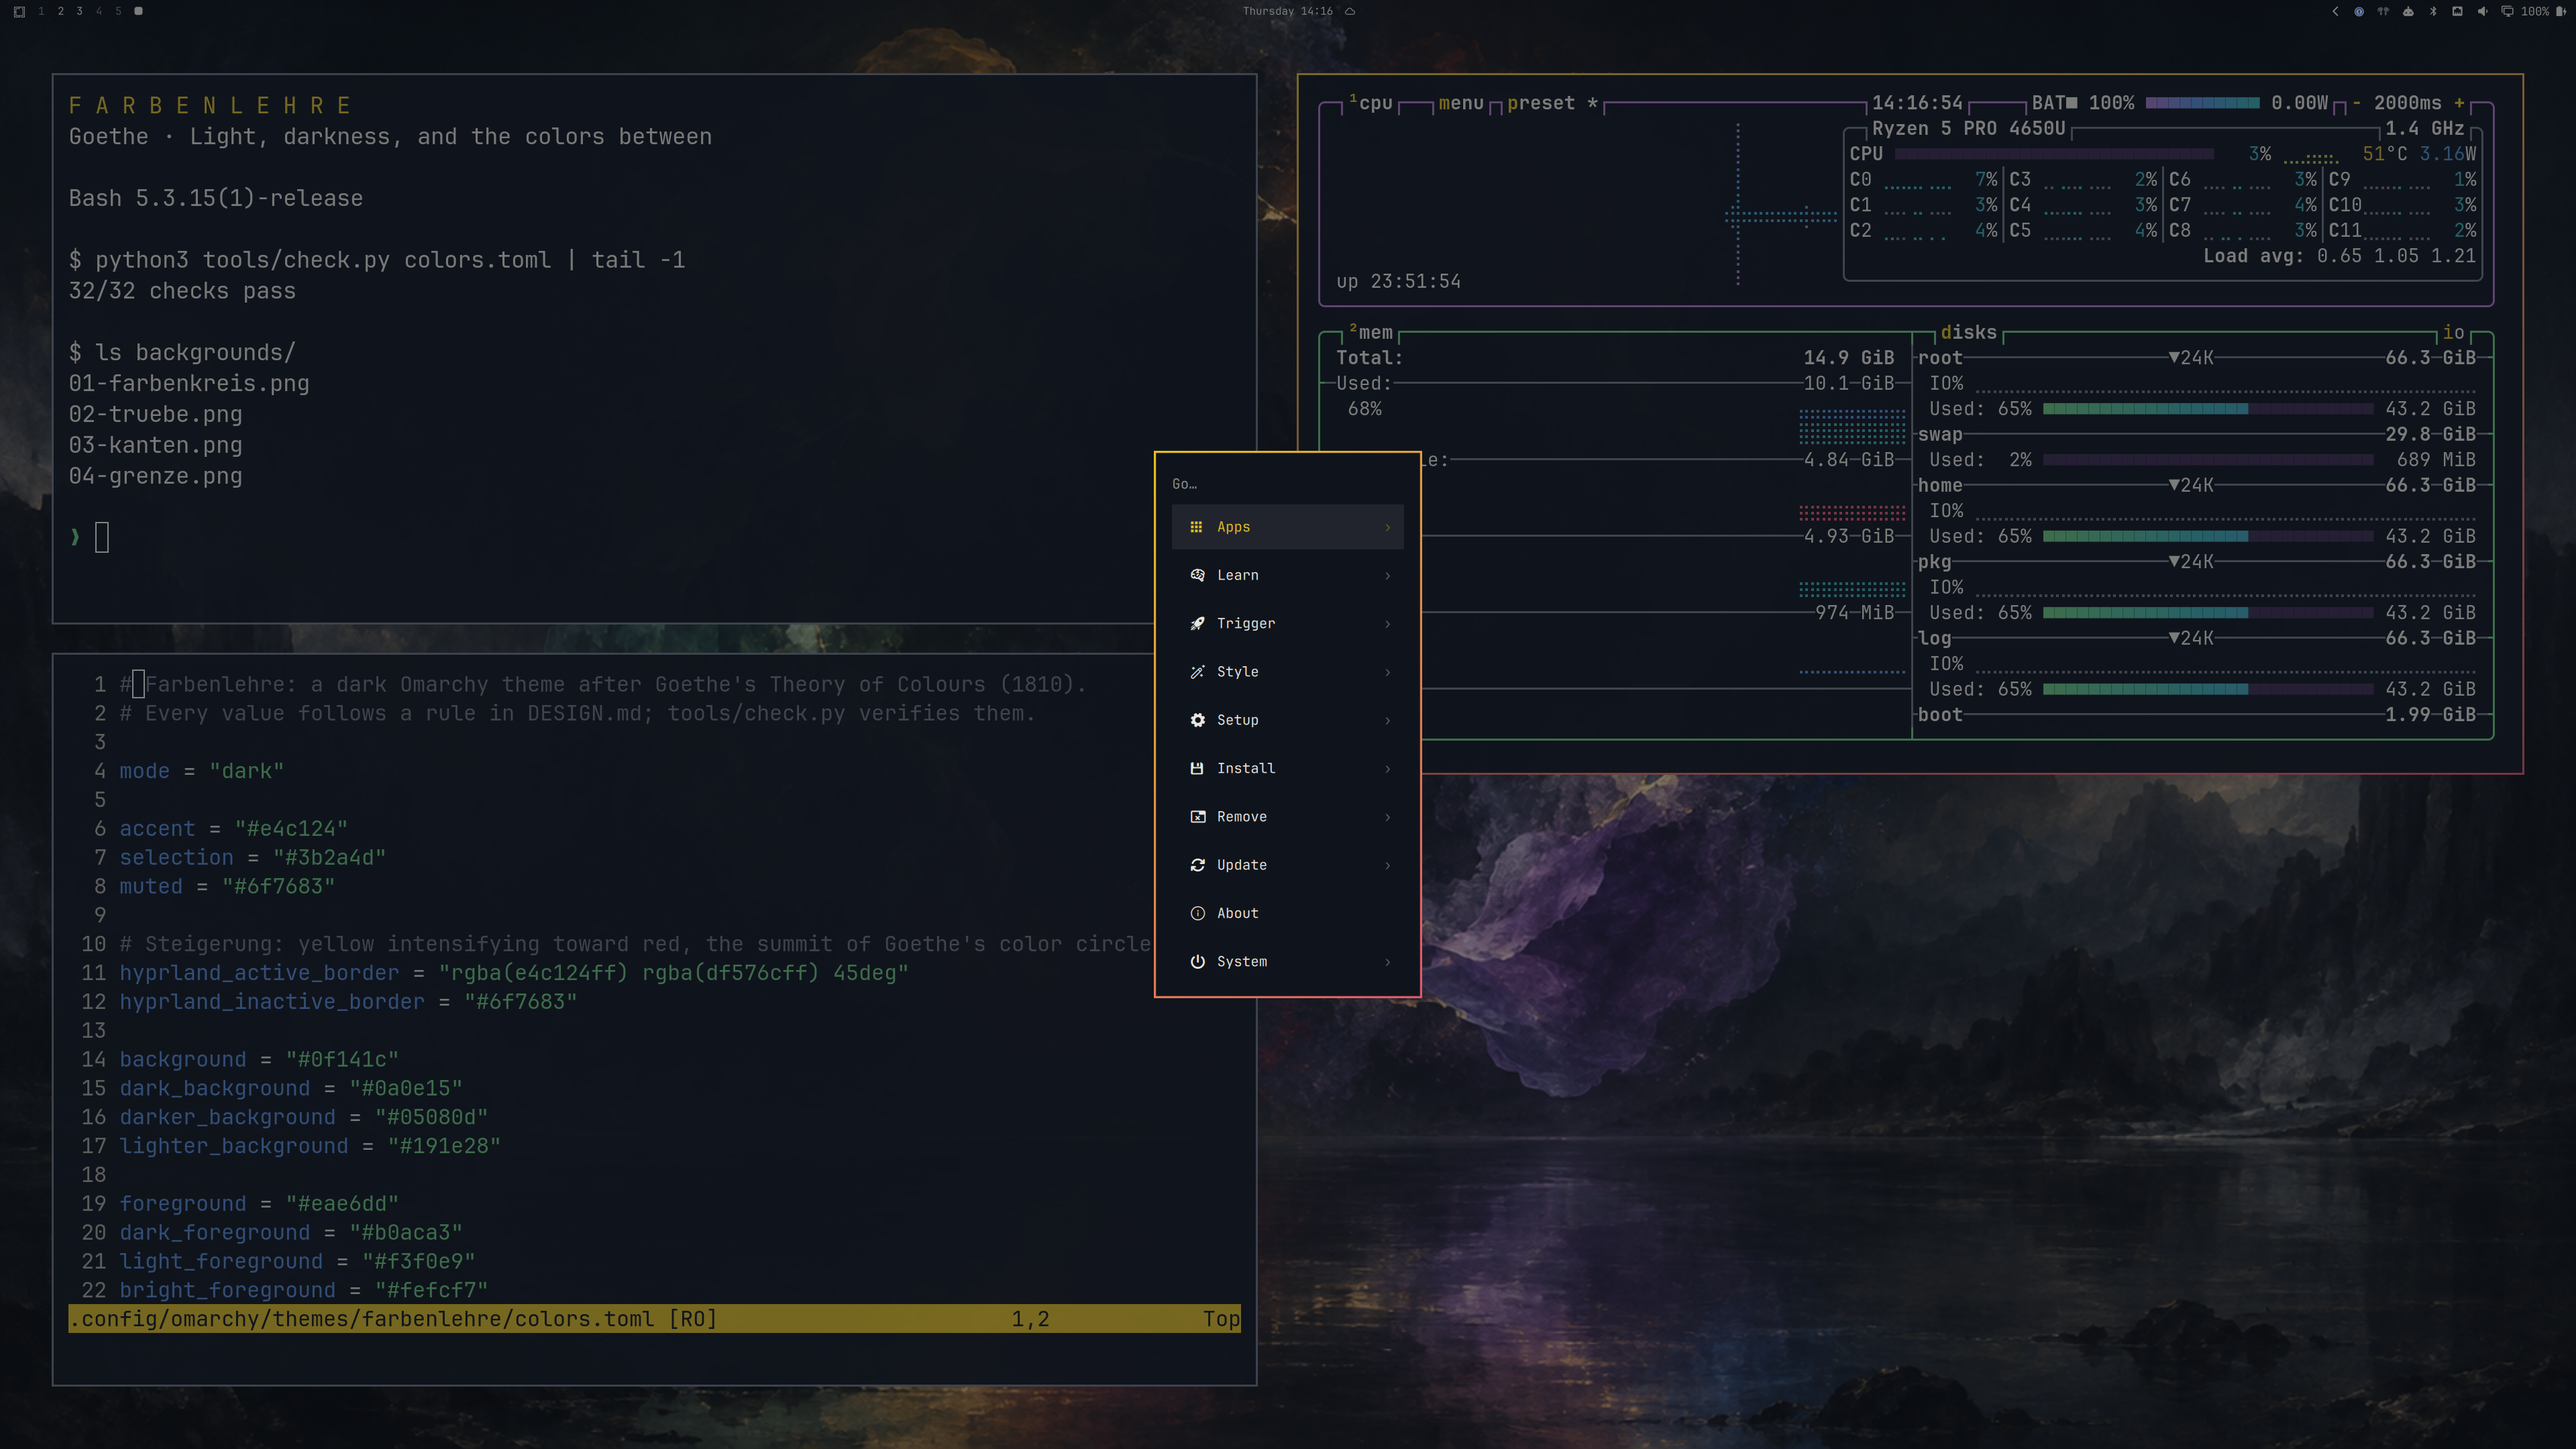
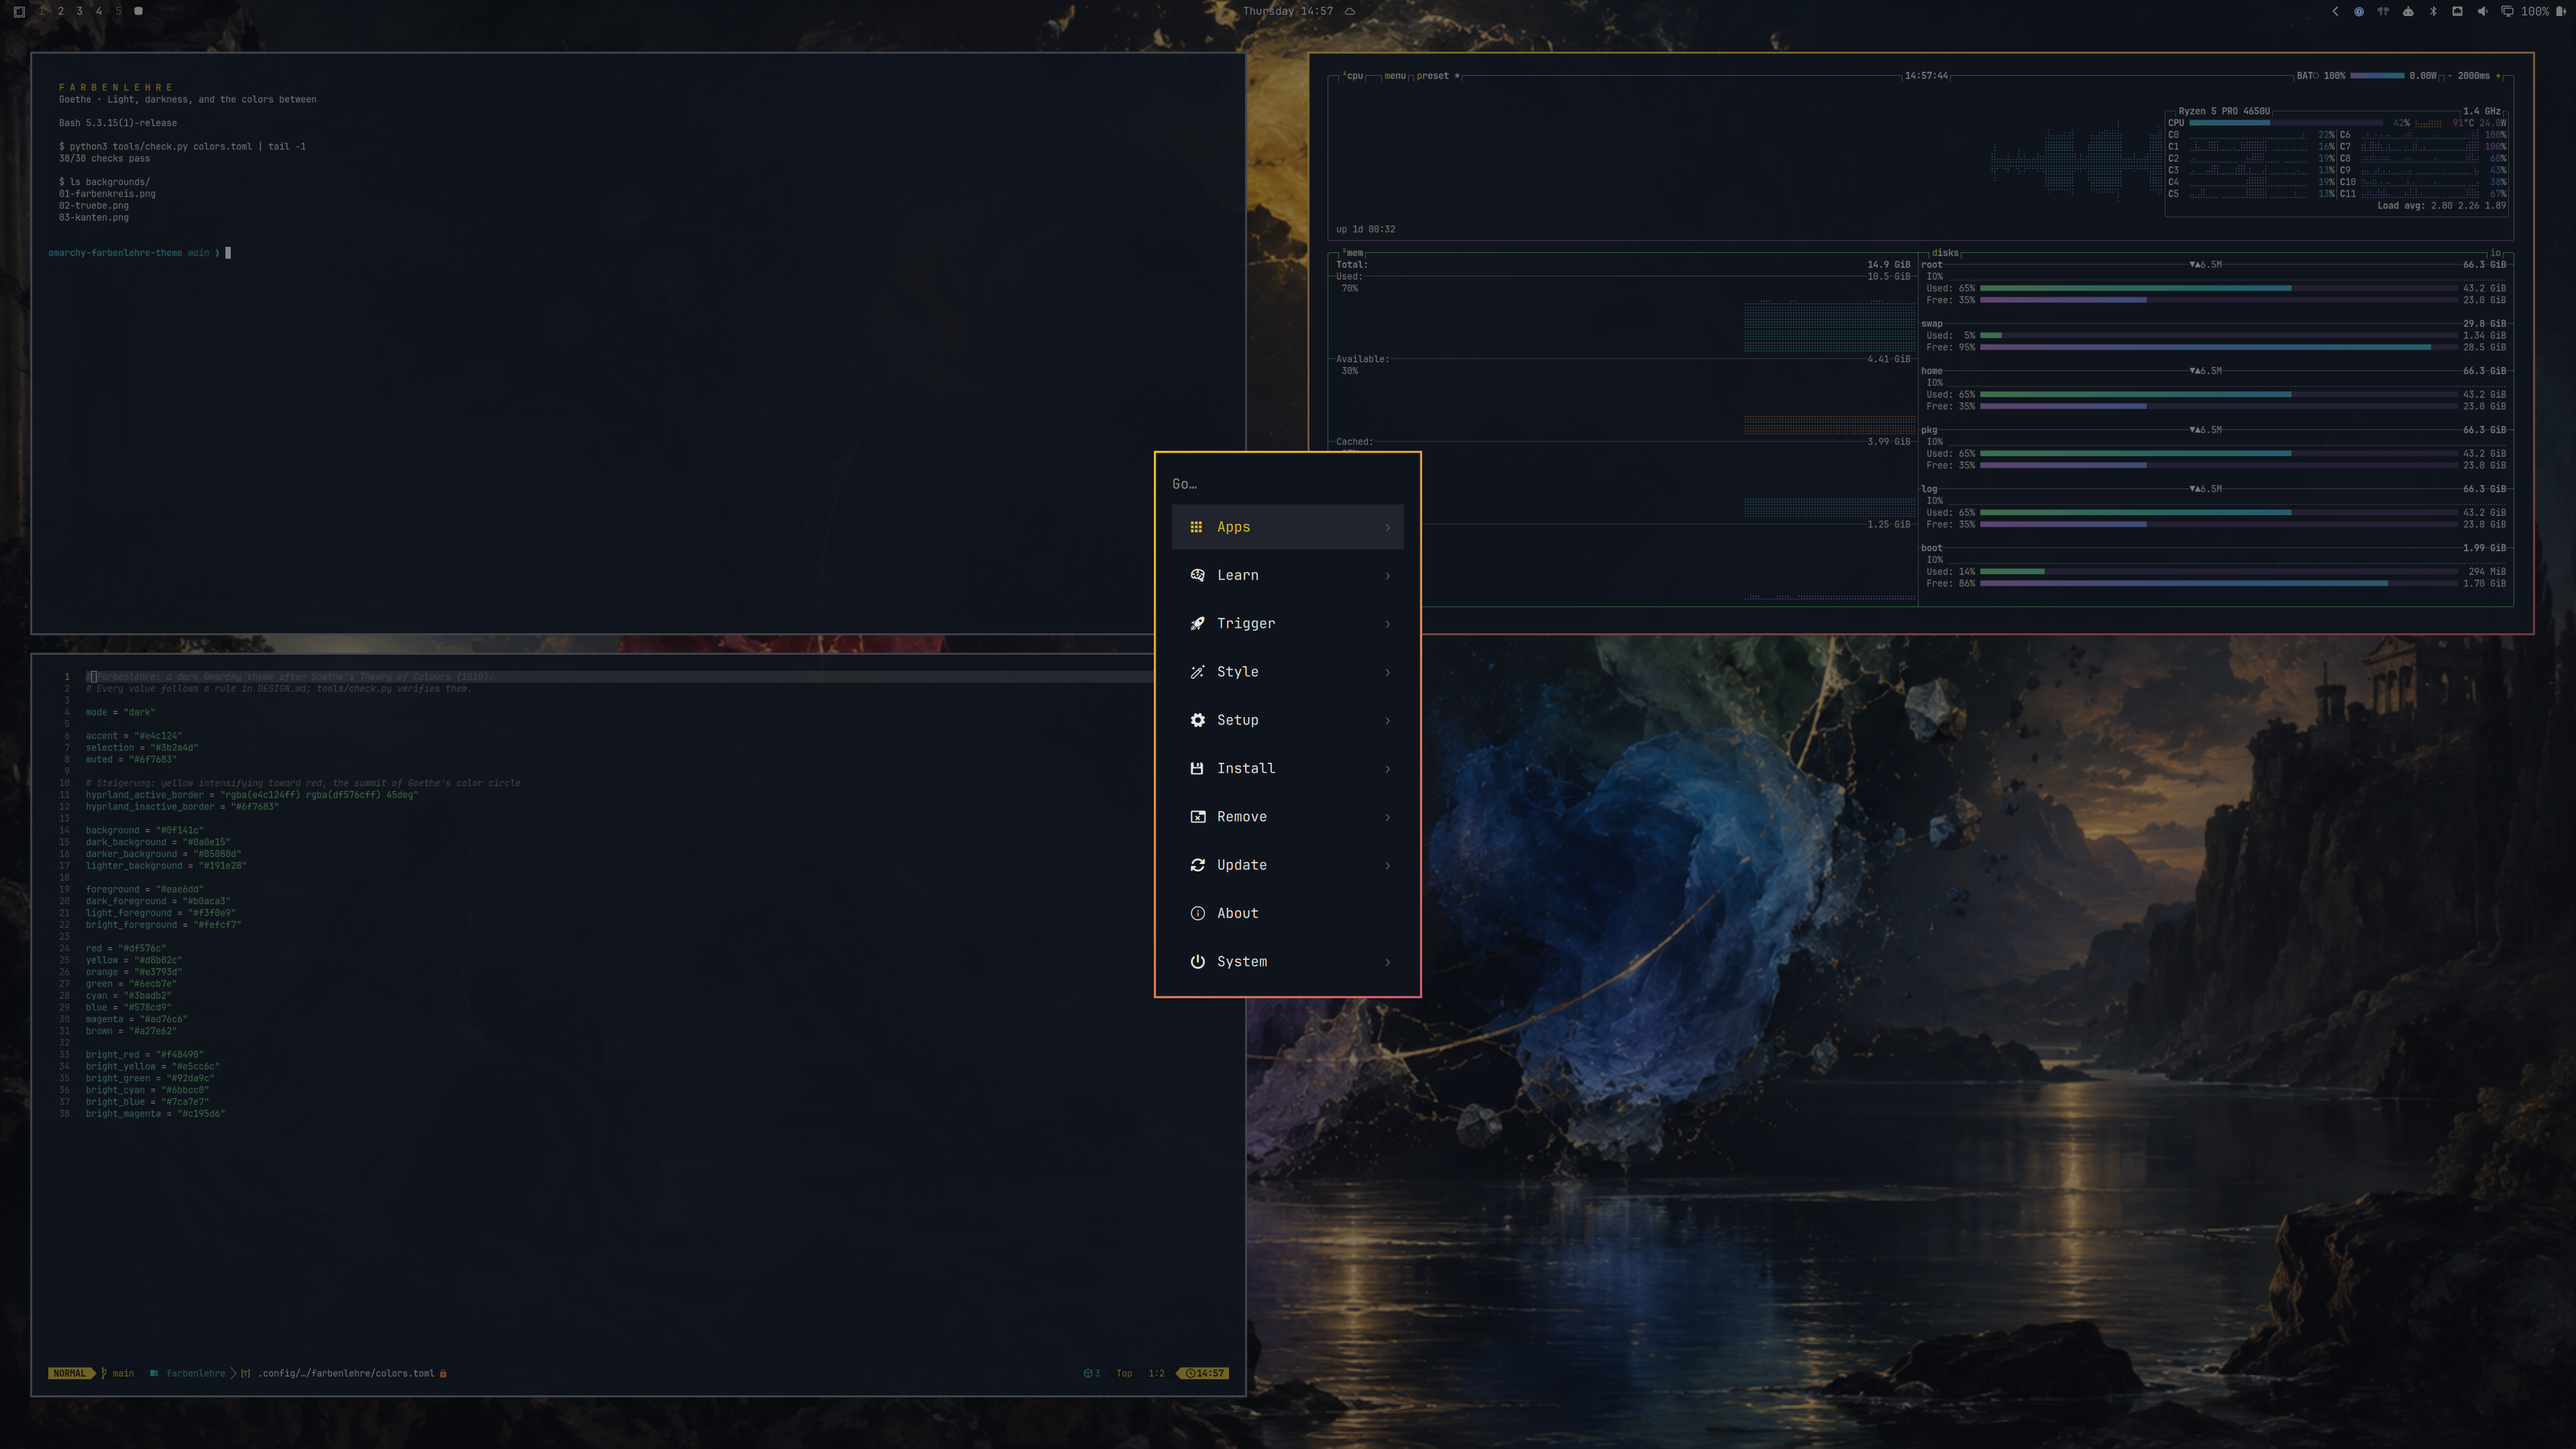
Retake the preview screenshot
The old capture had gone stale three ways: it showed "32/32 checks pass"
against a checker that now reports 38, an "ls backgrounds/" listing
04-grenze.png after that moved to docs/, and the Farbenkreis wallpaper from
before the regeneration.

New 3840x2160 capture on the current theme. The terminal output is real, not
typed: the checker and the listing were run in the shell that is shown. btop
runs with its process list switched off so the screenshot does not publish a
list of what was running, and with load generated during the capture so its
graphs are not flat. ASSETS.md records both, and corrects the claim that the
editor was an isolated configuration -- it is an ordinary Omarchy LazyVim
setup rendering the theme's generated colors.

diff --git a/ASSETS.md b/ASSETS.md
@@ -20,7 +20,7 @@ The checker uses black and white bounds instead of samples from the old artwork,
 
 ## Preview
 
-`preview.png` is a real 3840×2160 Omarchy desktop screenshot showing Bash, Neovim displaying colors.toml, btop CPU/memory graphs, the open Omarchy menu, the live bar and a smaller exposed area of an earlier Farbenkreis wallpaper, since superseded. The demonstration editor uses an isolated configuration with colors from the theme; it does not represent the default Neovim setup. It was captured on 2026-09-17. The wallpaper is scaled by the desktop from its native 1672×941 image; the screenshot does not make the source artwork native 4K.
+`preview.png` is a real 3840×2160 Omarchy desktop screenshot showing Bash, Neovim on `colors.toml`, btop, the open Omarchy menu, the live bar and an exposed area of the current Farbenkreis wallpaper. Neovim is an ordinary Omarchy LazyVim setup rendering the theme's generated colors, not a mock. btop runs with its process list switched off, so the capture does not publish a list of what was running. Its CPU graphs show load generated during the capture, so the panels are not flat. Captured on 2026-09-17. The wallpaper is scaled up by the desktop from its native 1672×941 image; the screenshot does not make the source artwork native 4K.
 
 ## License
 

diff --git a/README.md b/README.md
@@ -2,9 +2,9 @@
 
 A dark theme for [Omarchy](https://omarchy.org), built on Goethe's *Theory of Colours* (1810).
 
-![Farbenlehre: Bash, palette editor, btop and Omarchy menu](preview.png?v=20260917-desktop-apps)
+![Farbenlehre: Bash, Neovim, btop and the Omarchy menu](preview.png?v=20260917-regenerated)
 
-Real Omarchy desktop capture with Bash, a palette editor, btop and the Omarchy menu. The Farbenkreis wallpaper remains visible behind the applications.
+Real Omarchy desktop capture with Bash, Neovim on `colors.toml`, btop and the Omarchy menu, over the Farbenkreis wallpaper.
 
 ```sh
 omarchy theme install https://github.com/thepixelgardener-create/omarchy-farbenlehre-theme
